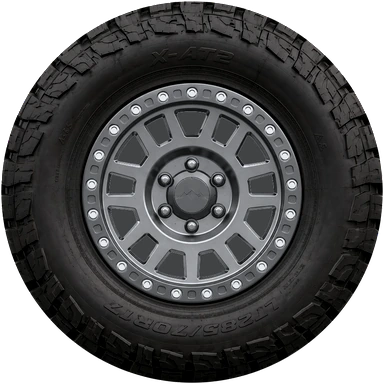
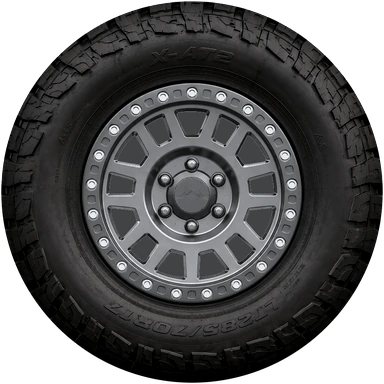
Объёмнее колесо и честнее физика на заставке
Колесо: в спрайт запечена радиально-симметричная объёмная
светотень — тёмная канавка у борта, светлый купол боковины,
плечо, уходящее в тень. Тень зависит только от радиуса, поэтому
она не «крутится» вместе с картинкой и колесо выглядит круглым
телом, а не наклейкой. Профиль яркости по r/R теперь
27/46/44/40/24/16 вместо почти плоского 32/44/41/40/32/30.

Физика: угловая скорость отделена от поступательной. Отскок от
логотипа даёт колесу боковой импульс и лишь часть вращения,
поэтому в момент приземления оно проскальзывает; кулоновское
трение в пятне контакта (I = mR², обруч) разгоняет вращение и
подтормаживает ход, пока проскальзывание не исчезнет — дальше
качение без скольжения. Нагруженная шина всегда чуть сплющена:
пятно контакта не пропадает на катящемся колесе.

Замерено: проскальзывание 39 px/с в момент касания, 0 через
64 мс, статическое пятно 0.84 px в качении.

diff --git a/public/splash.js b/public/splash.js
@@ -23,6 +23,7 @@
   var G = 3200;            // תאוצת כובד — גלגל שטח כבד נופל בחדות
   var E_LOGO = 0.52;       // מקדם החזרה מהסימן — גומי על מתכת
   var E_GROUND = 0.42;     // מהרצפה
+  var MU = 1.15;           // אחיזת גומי במשטח — קובעת כמה מהר ההחלקה נבלמת
   var DEFLECT, ROLL_MAX, ROLL_ACC;   // נגזרים מאורך המסלול, ראו למטה
   var R;                   // רדיוס הגלגל
 
@@ -81,7 +82,7 @@
 
   var x = startX;                         // נופל על כתר הסימן
   var y = R - box.top - 24;               // מתחיל מעל קצה המסך, לא בתוך הבמה
-  var vx = 0, vy = 0, rot = 0;
+  var vx = 0, vy = 0, rot = 0, omega = 0;   // omega נפרדת מ-vx, ולכן אפשר להחליק
   var squash = 0, squashT = 0, hitLogo = false;
   var FLAT_MAX = 0.13 * R;                 // כמה הגומי נדחס לכל היותר
   var flat = 0;                            // עומק משטח המגע כרגע
@@ -117,7 +118,7 @@
     vy += G * dt;
     x += vx * dt;
     y += vy * dt;
-    rot += (vx * dt) / R;                 // גלגול בלי החלקה
+    rot += omega * dt;                    // הזווית נגזרת מהסיבוב עצמו, לא מהנסיעה
 
     // הפגיעה הראשונה: על הסימן
     var overLogo = x > markLeft - R * 0.4 && x < markRight + R * 0.4;
@@ -132,6 +133,7 @@
           squash = Math.min(0.2, Math.abs(vy) / 5200);   // הסימן נלחץ לפי עוצמת הפגיעה
           squashT = 0;
           vx = DEFLECT;                                   // ומדיח את הגלגל הצידה
+          omega = DEFLECT / R * 0.3;                      // ומעניק לו חלק מהסיבוב
         }
         vy = -vy * e;
         flat = Math.min(FLAT_MAX, Math.abs(vy) / 260);    // רק הגומי, לפי עוצמת הפגיעה
@@ -147,6 +149,20 @@
           slideDur = Math.max(0.5, (wordLeft + GAP + wordW + RT - x) / ROLL_MAX);
         }
         if (vx < ROLL_MAX) vx += ROLL_ACC * dt;           // מתייצב ומתגלגל הלאה
+        flat = Math.max(flat, R * 0.04);                  // צמיג טעון תמיד שטוח קצת
+      }
+
+      /* חיכוך בפתח המגע. הגלגל עוזב את הסימן עם מהירות הצידה אבל
+         כמעט בלי סיבוב, ולכן ברגע הנחיתה הוא מחליק — והחיכוך מאיץ
+         את הסיבוב ובולם מעט את הנסיעה עד שהשניים משתווים. מכאן
+         והלאה זה גלגול בלי החלקה. */
+      var slip = vx - omega * R;
+      if (Math.abs(slip) > 0.5) {
+        var d = Math.min(Math.abs(slip), 2 * MU * G * dt) * (slip > 0 ? 1 : -1);
+        vx -= d / 2;
+        omega += d / (2 * R);
+      } else {
+        omega = vx / R;
       }
     }
 

diff --git a/index.html b/index.html
@@ -483,7 +483,7 @@ svg{flex:none}
       </svg>
       <span class="word" id="spWord">AUTOPARTS</span>
       <span class="shade" id="spShade"></span>
-      <span class="wheel" id="spWheel" aria-hidden="true"><img id="spSpin" src="/wheel.webp?v=7" alt="" draggable="false"></span>
+      <span class="wheel" id="spWheel" aria-hidden="true"><img id="spSpin" src="/wheel.webp?v=8" alt="" draggable="false"></span>
     </div>
     <span class="hint">מתחבר לשרת…</span>
   </div>

diff --git a/desktop.html b/desktop.html
@@ -259,7 +259,7 @@ tr:hover td{background:rgba(236,232,226,.45)}
     </svg>
     <span class="word" id="spWord">AUTOPARTS</span>
     <span class="shade" id="spShade"></span>
-    <span class="wheel" id="spWheel" aria-hidden="true"><img id="spSpin" src="/wheel.webp?v=7" alt="" draggable="false"></span>
+    <span class="wheel" id="spWheel" aria-hidden="true"><img id="spSpin" src="/wheel.webp?v=8" alt="" draggable="false"></span>
   </div>
 </div>
 
